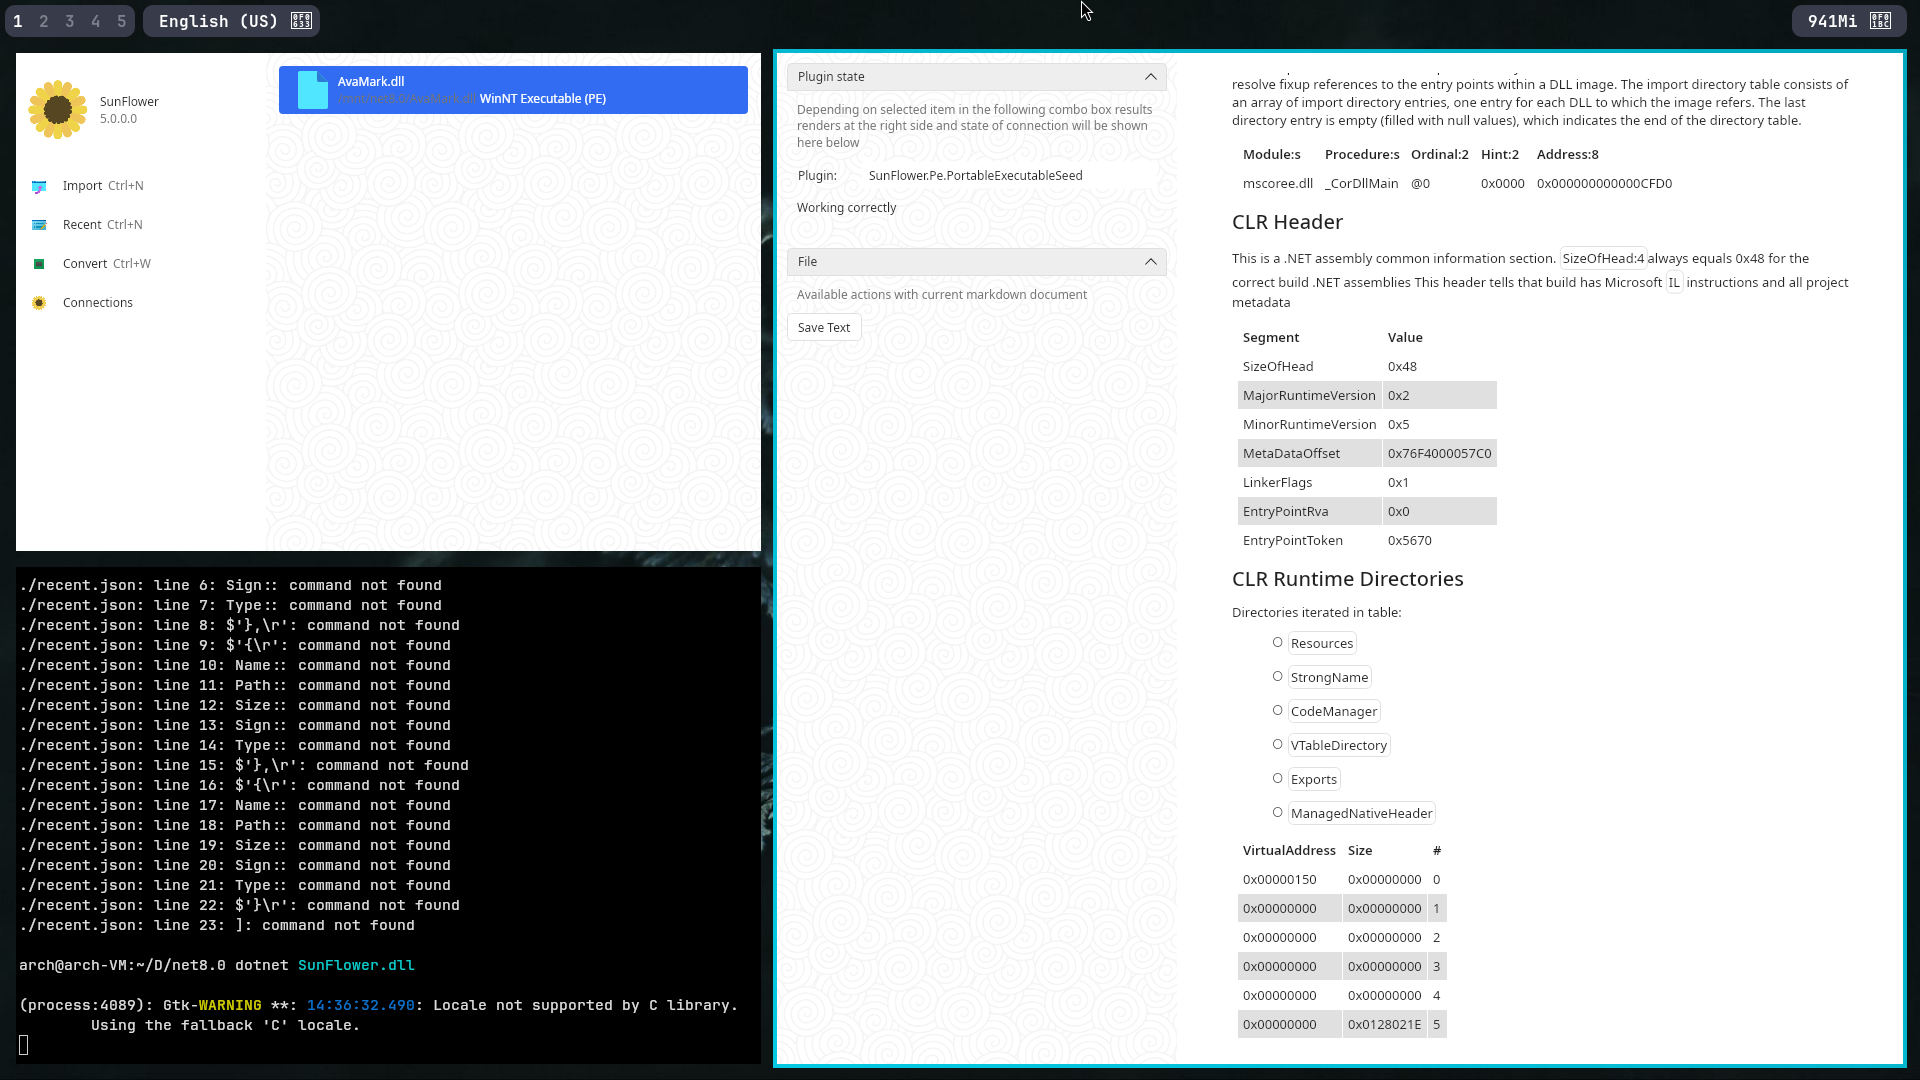
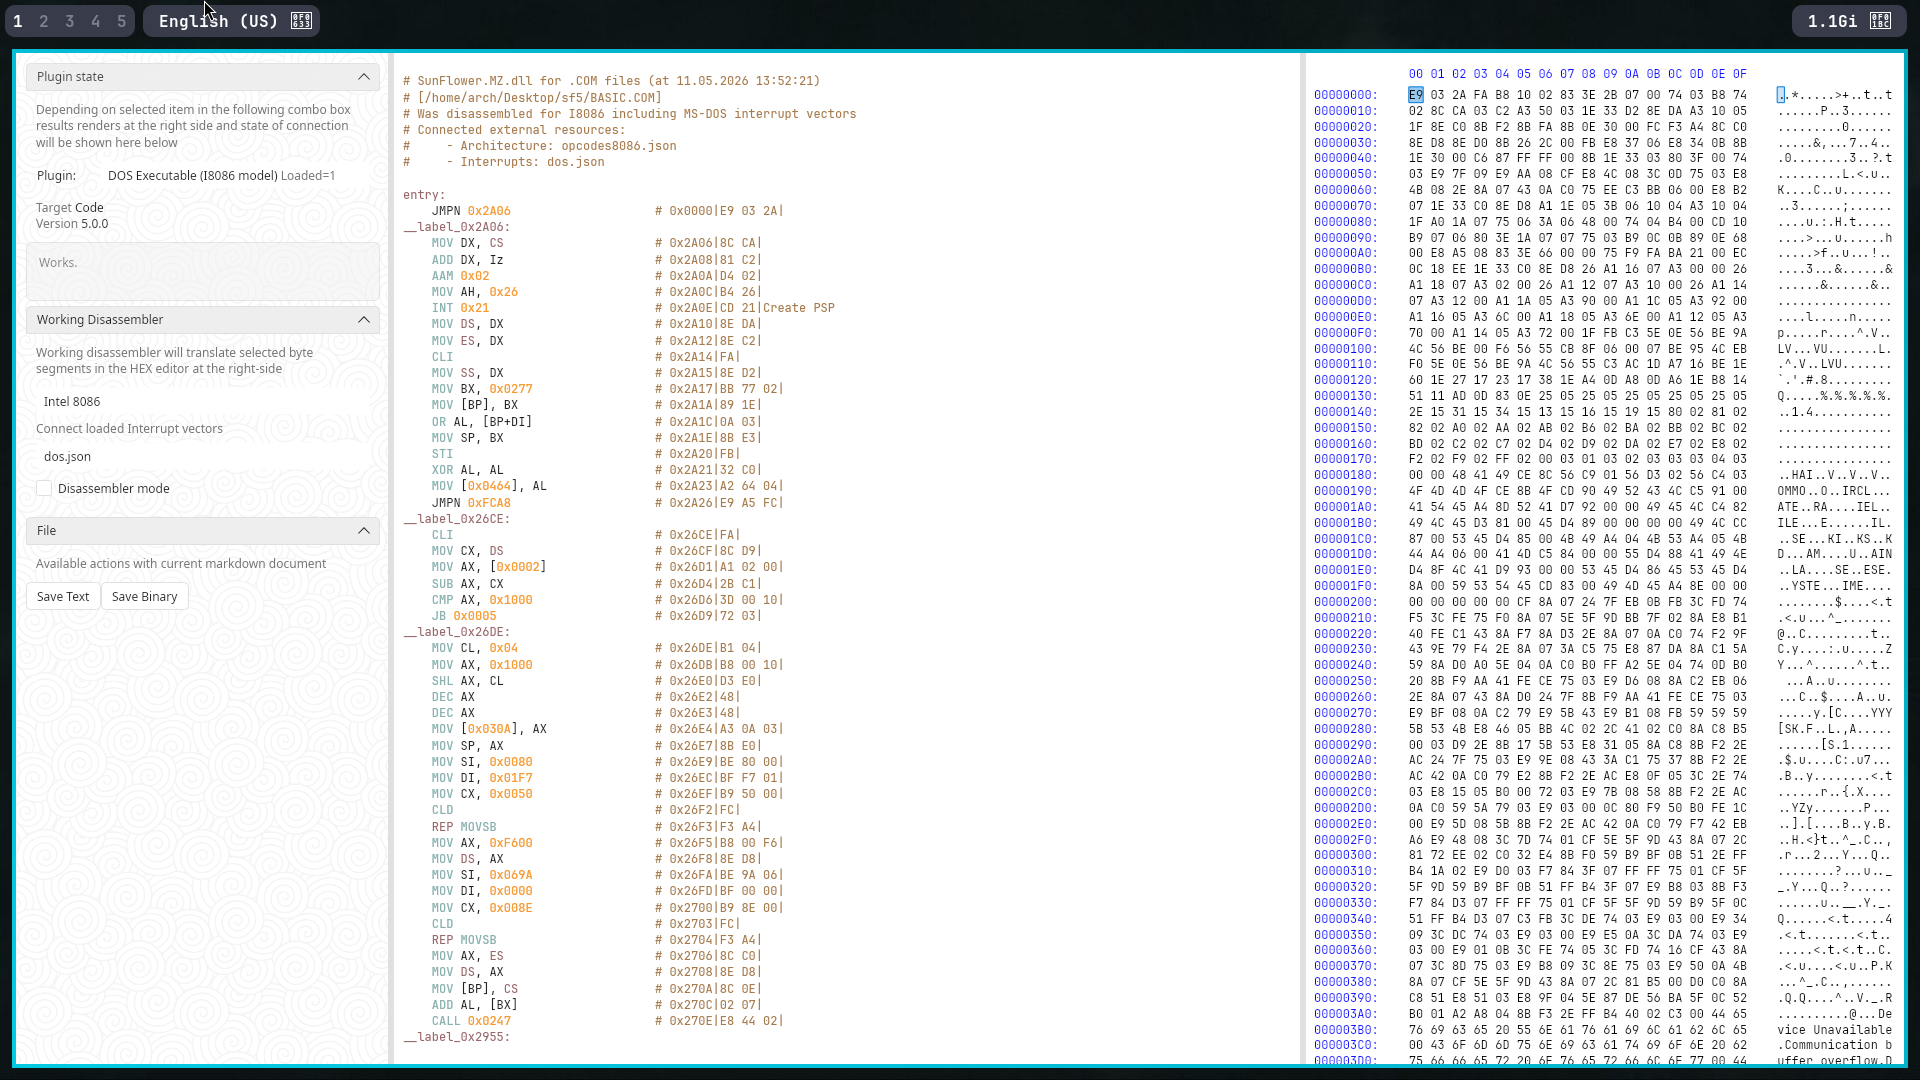
assets: updated readme

diff --git a/README.md b/README.md
@@ -2,16 +2,17 @@
 
 <img src="assets/sunflower.svg" height="128" width="128" align="right">
 
-Sunflower is an open-source, plugin-driven system designed for binary analysis. 
-Was inspired by PEAnathomist, CFFExplrer, Semi VB Decompiler, and other same toolkits. 
-Main idea of it - make non-monolith application and avoid embedded functions. This repository contains
-just loader details and the client.   
+Sunflower is an open-source, user-friendly disassembler and plugin-driven system designed for binary analysis.
+
+_Was inspired by IDA, PEAnathomist, CFFExplrer, Semi VB Decompiler, and other same toolkits._
+
+Main idea of it - make non-monolith application and avoid embedded functions. This repository contains just loader details and the client.
 
 This repository includes following parts of my work:
  - Base definitions (`abstractions`) 
  - Plugins manager (`kernel`)
  - Avalonia client (`client`)
- - Disassembler support (`dasm`)
+ - Core Disassembler (`dasm`)
 
 > [!NOTE]
 > Sources of plugins contains in [SunFlower.Plugins](https://github.com/AlexeyTolstopyatov/SunFlower.Plugins/) repository
@@ -81,7 +82,6 @@ type MyAnalyzer() =
 7) Run SunFlower and see what you can!
 
 ![Sunflower at the archVM](assets/vmware_screenshot.png)
-![Sunflower at the Windows platform](assets/light.png)
 ### Supported Binary Formats
 
 Out-of-box DLLs are in [plugins](https://github.com/AlexeyTolstopyatov/SunFlower.Plugins/) repo
@@ -97,10 +97,12 @@ Any differences between foundation file version and plugins foundation calls for
 ### Frameworks And other external toolchain
 
 All frameworks and toolkits
- - Avalonia XPF `.net8.0` - Foundation of crossplatform client
- - `.NET 8.0` - Foundation of everything
+ - .NET `8.0` - Foundation of everything
+ - [Avalonia XPF](https://github.com/AvaloniaUI/Avalonia) `11.3` - Foundation of crossplatform client
  - [HandyControls](https://github.com/HandyOrg/HandyControl) - better Window controls / little MVVM experience
  - [Markdown.Avalonia](https://github.com/whistyun/Markdown.Avalonia) instead of Monaco Editor and JavaScript bindings
+ - [Avalonia Hex](https://github.com/Washi1337/AvaloniaHex)
+ - [Avalonia Edit](https://github.com/AvaloniaUI/AvaloniaEdit)
 
 > [!TIP]
 > At the moment of publishing Sunflower the `HandyControl`s not supports